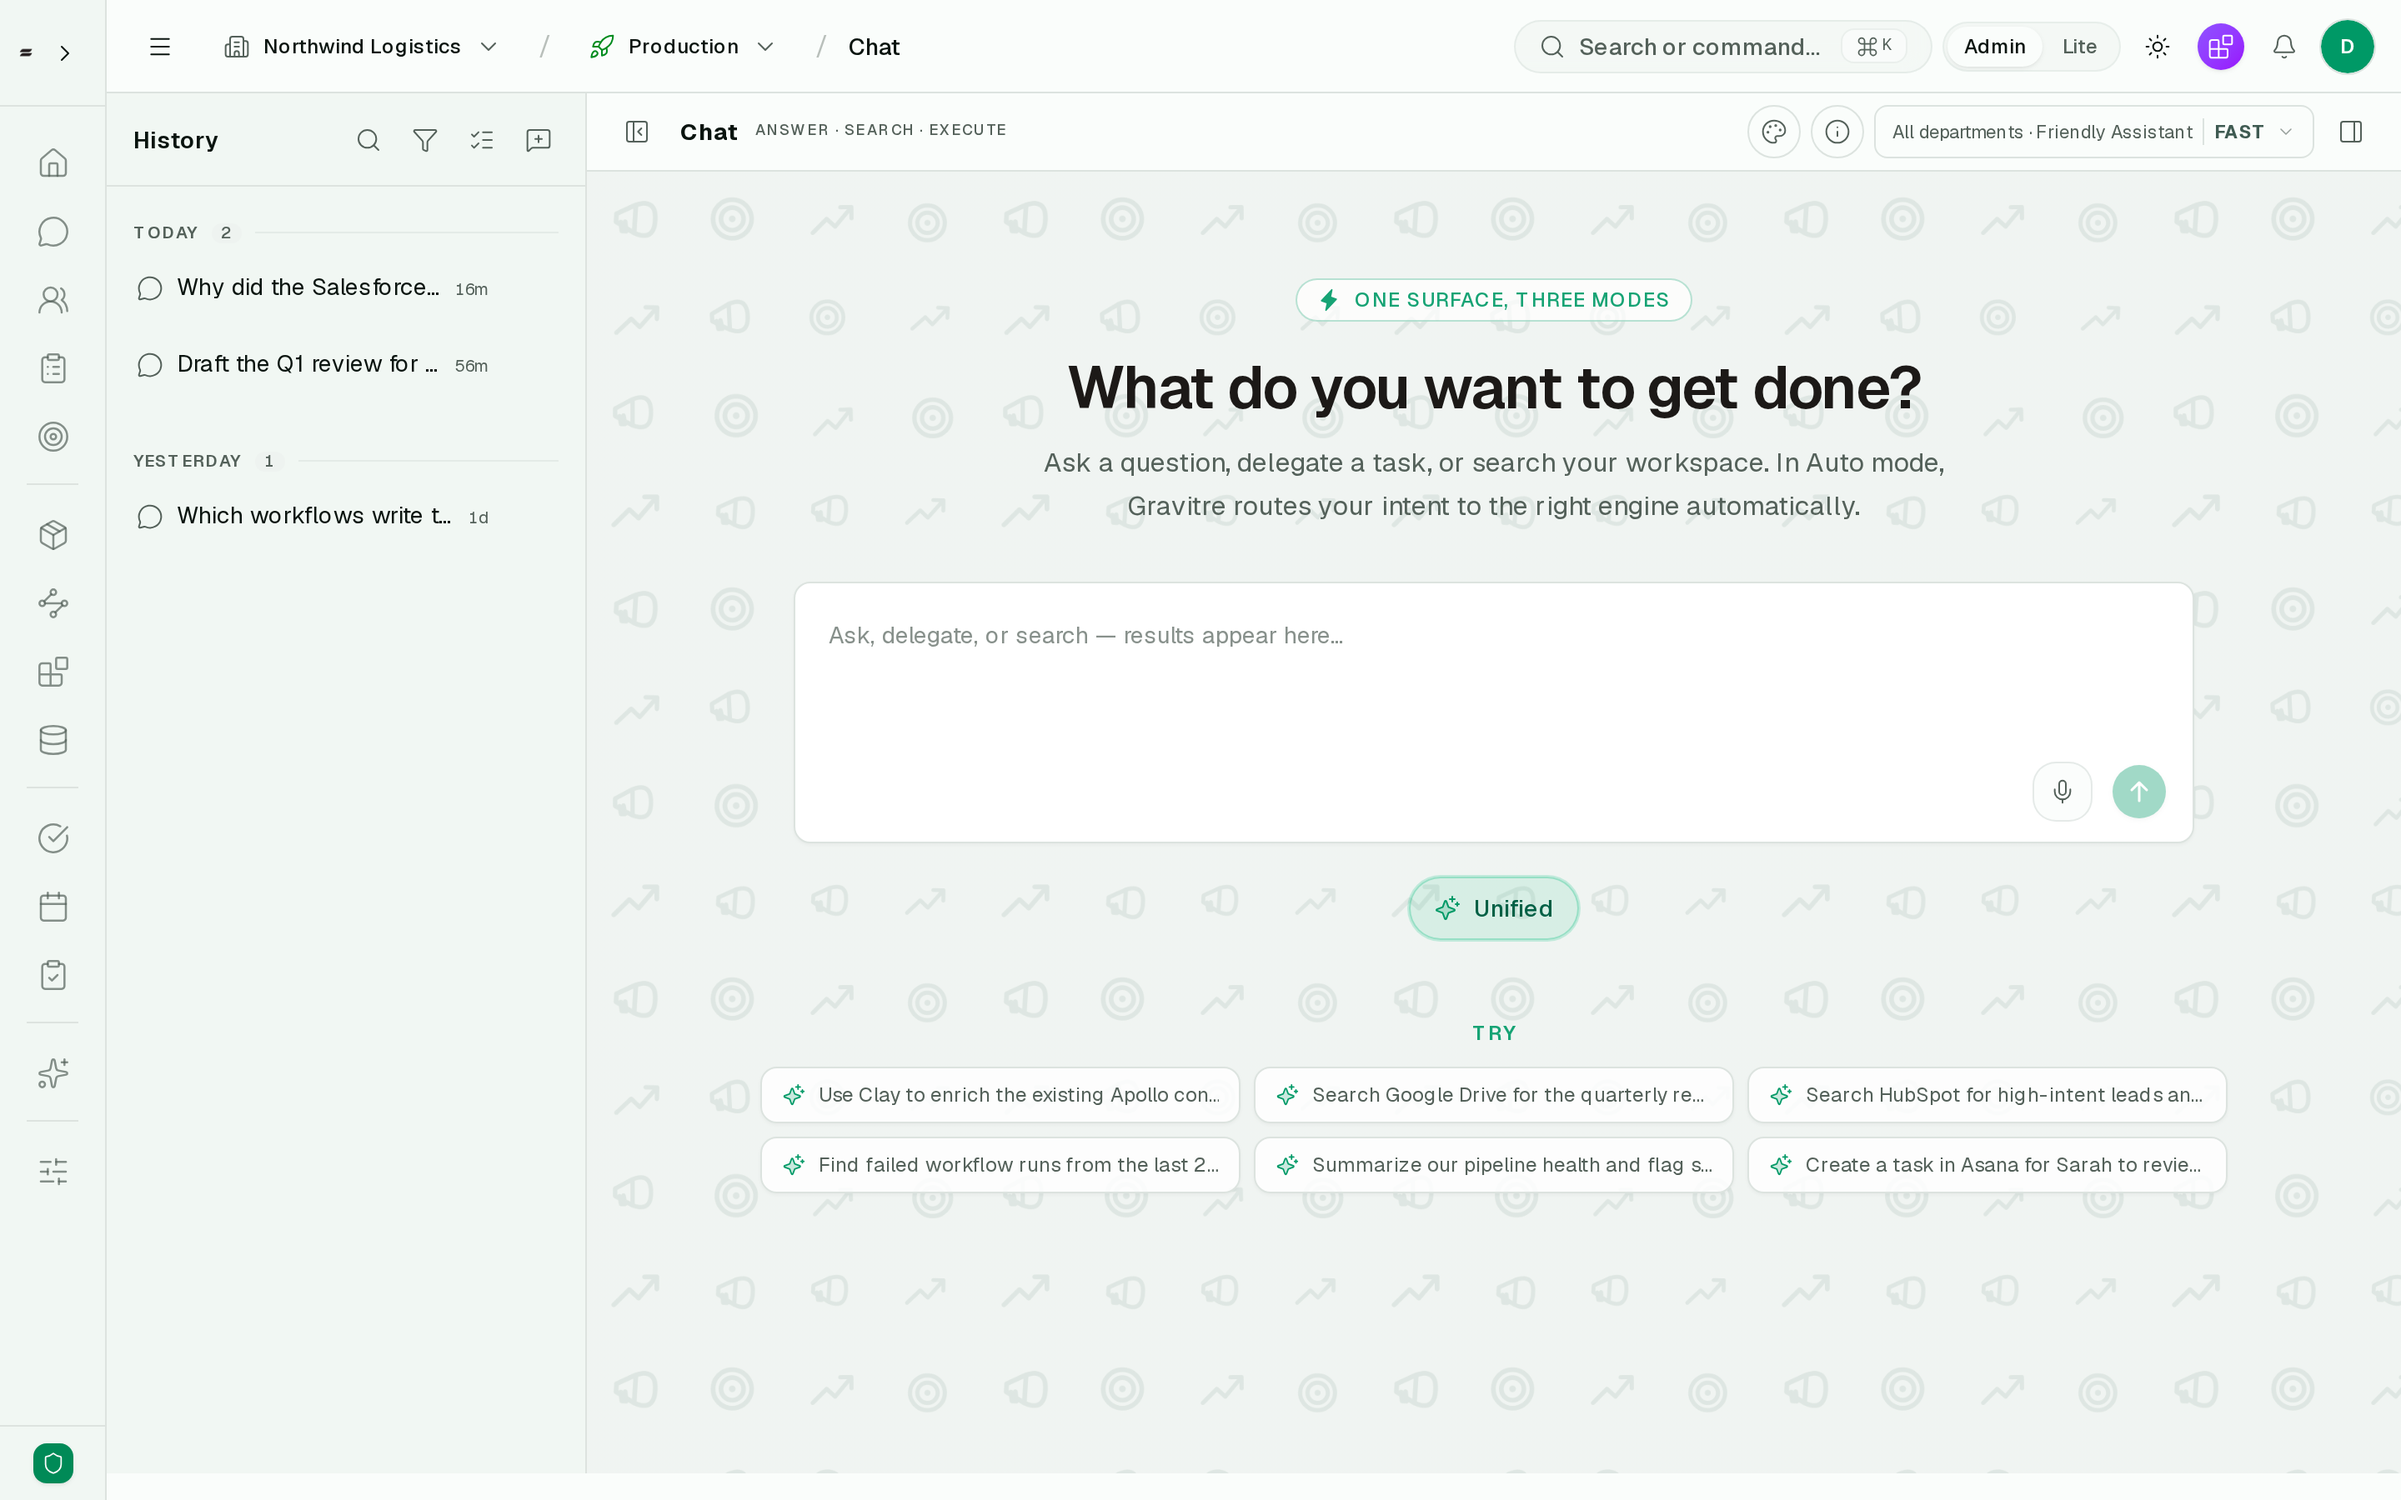
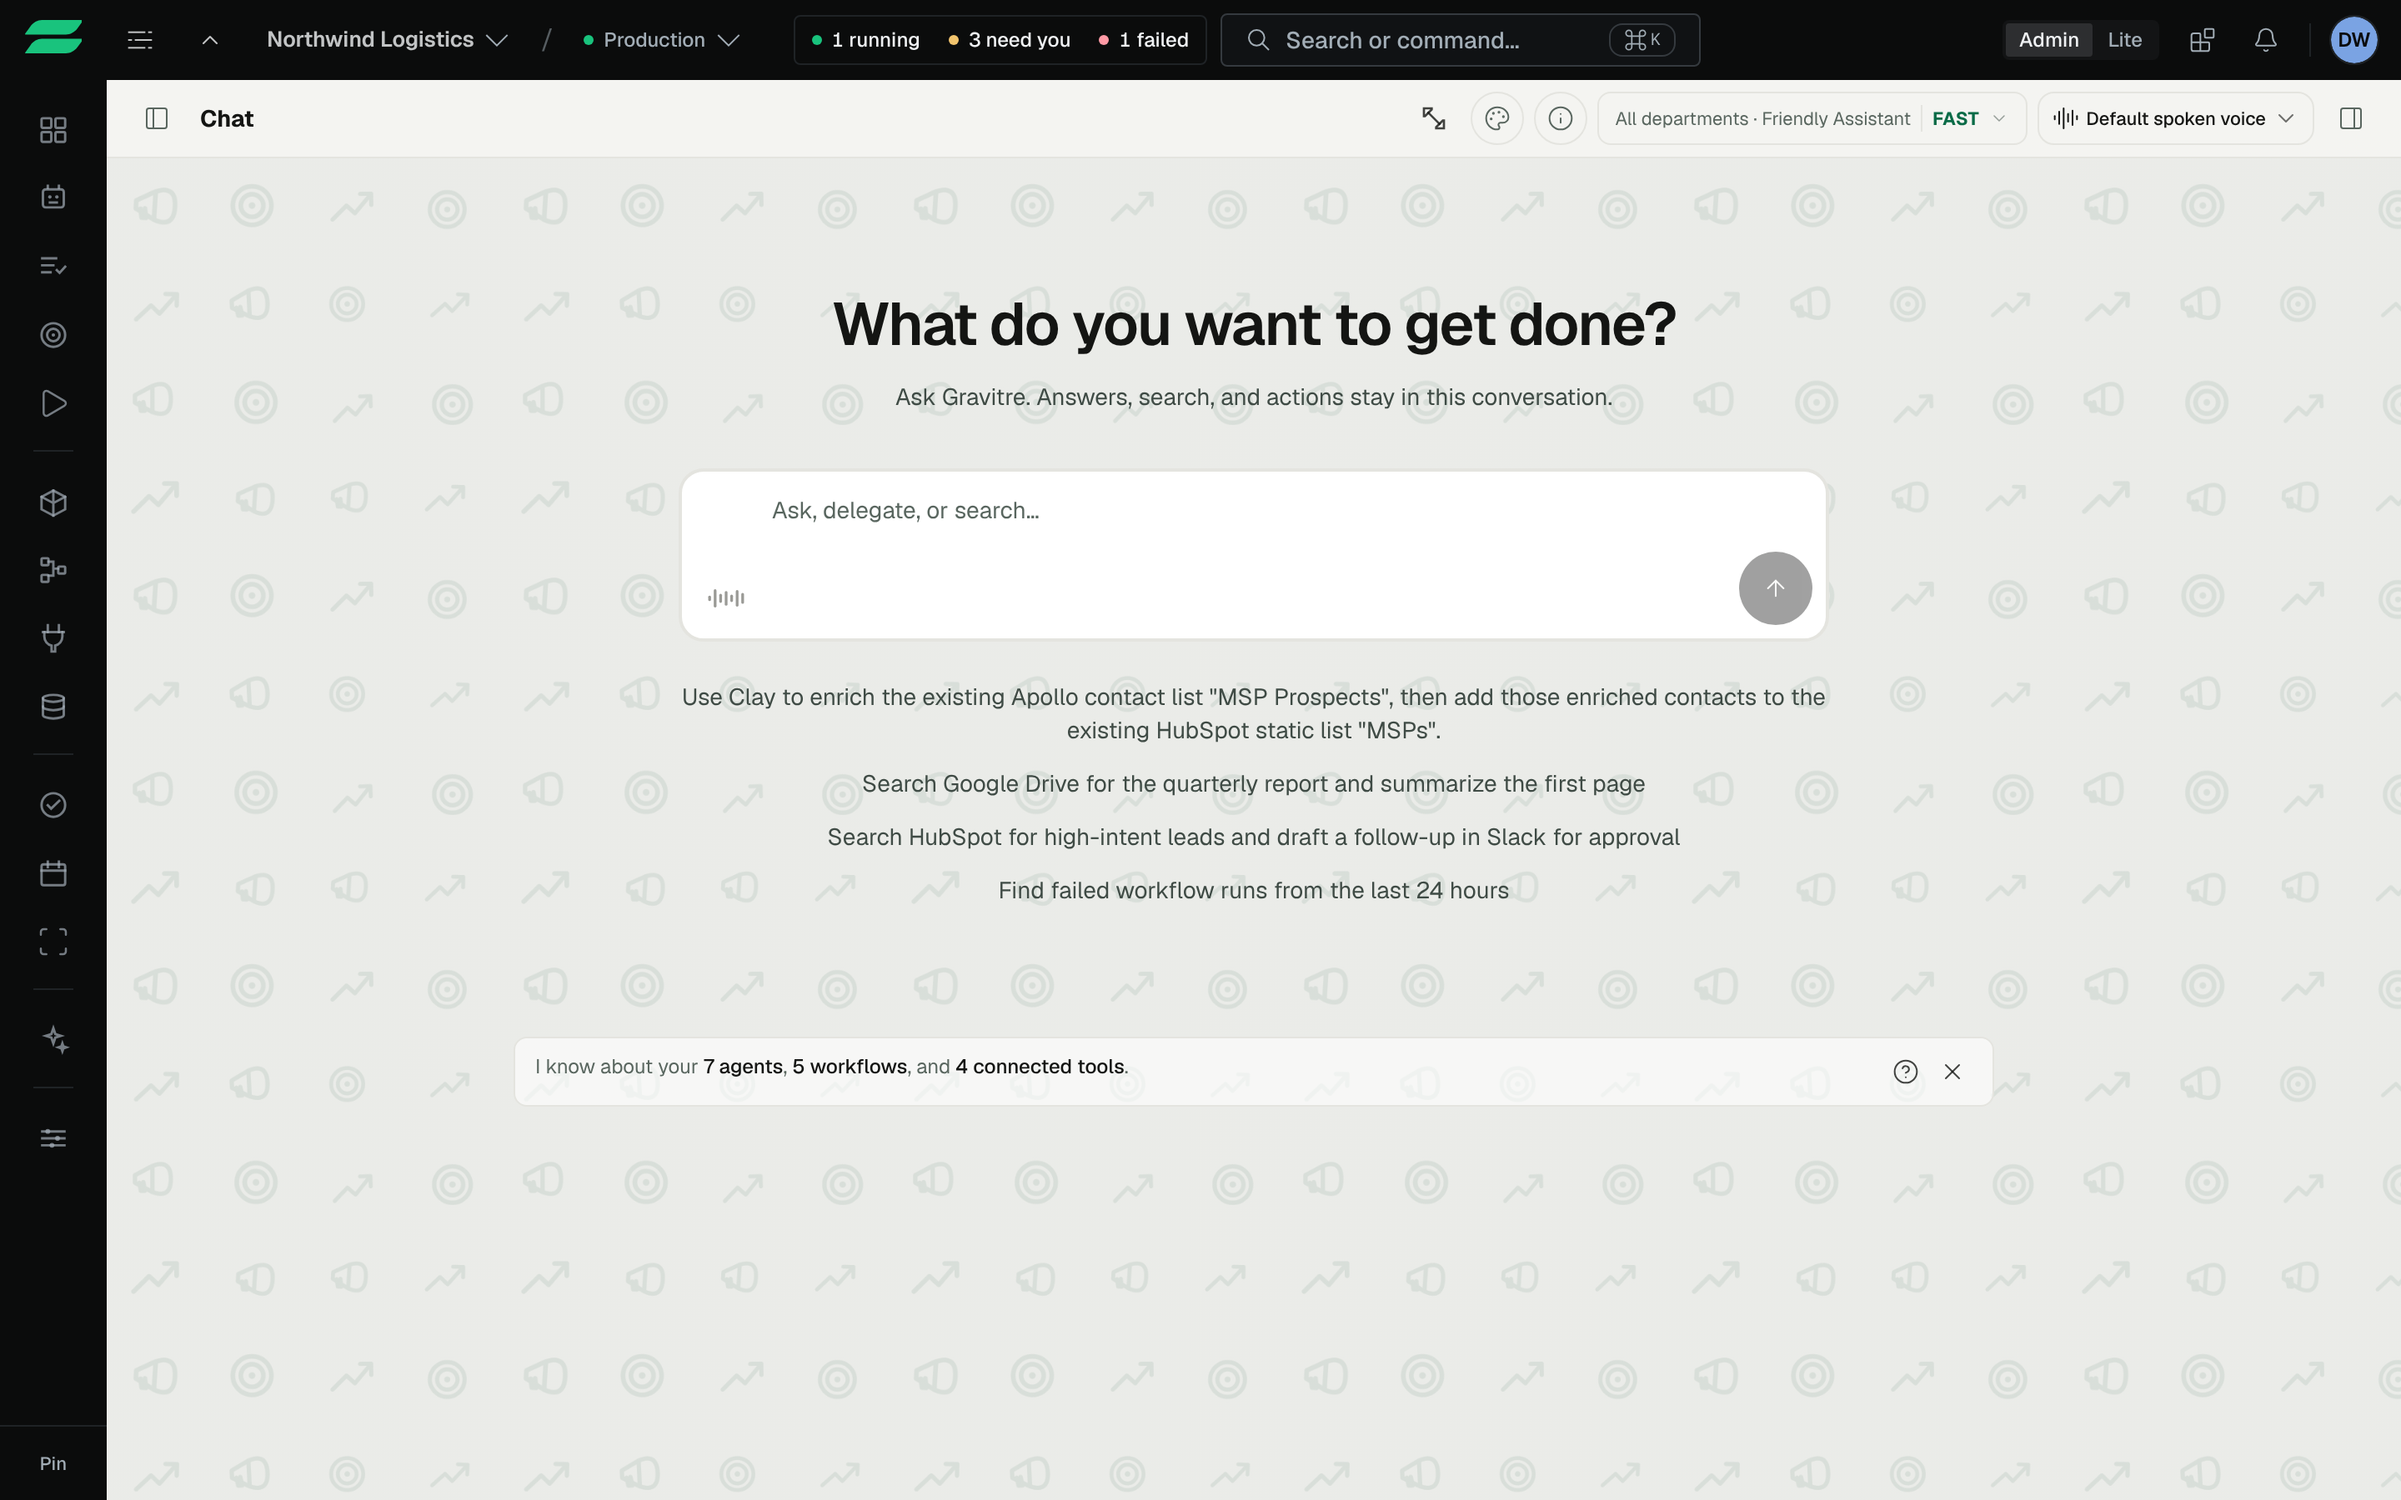
Marketing: features hero pills switch the screenshot; real Gravitre mark in the illustrations
The Gravitre AI / Agents / Workflows / Connectors / Approvals / GIBE pills on
/features are now buttons that swap the framed screenshot to that app screen.
Gravitre AI and Workflows are fresh captures; GIBE shows the Knowledge view.
The hub mark inside the new illustrations is the real two-bar logo.

Claude-Session: https://claude.ai/code/session_01XzMELQLTnafTGZHyK3LxYt

diff --git a/apps/web/components/marketing/features/features-page.tsx b/apps/web/components/marketing/features/features-page.tsx
@@ -40,6 +40,55 @@ import {
 import { VoiceIntentField } from "@/components/marketing/creative"
 import { MARKETING_COPY } from "@/lib/marketing-copy"
 
+/** Hero pill → the real app screen it names (captures from /e2e/shots). */
+const HERO_SHOTS: Record<
+  string,
+  { src: string; alt: string; width: number; height: number; title: string }
+> = {
+  "Gravitre AI": {
+    src: "/product/app-ai.png",
+    alt: "Gravitre AI chat: ask, delegate, or search across your connected stack",
+    width: 2880,
+    height: 1800,
+    title: "Gravitre AI",
+  },
+  Agents: {
+    src: "/product/app-agents-team.png",
+    alt: "Gravitre Agents: your AI workforce by department",
+    width: 2880,
+    height: 1620,
+    title: "Agents",
+  },
+  Workflows: {
+    src: "/product/app-workflows.png",
+    alt: "Gravitre Workflows: status, runs and failure signals across connectors",
+    width: 2880,
+    height: 1800,
+    title: "Workflows",
+  },
+  Connectors: {
+    src: "/product/app-connectors-hub.png",
+    alt: "Gravitre Connectors: each system from connected to ready for agents",
+    width: 2880,
+    height: 1620,
+    title: "Connectors",
+  },
+  Approvals: {
+    src: "/product/app-approvals.png",
+    alt: "Gravitre decision queue with a paused write waiting for approval",
+    width: 2880,
+    height: 1800,
+    title: "Approvals",
+  },
+  GIBE: {
+    src: "/product/app-knowledge.png",
+    alt: "Gravitre Knowledge: what GIBE has learned about how your business connects",
+    width: 2880,
+    height: 1800,
+    title: "Knowledge",
+  },
+}
+
 const surfaceIcons = [
   BrainIcon,
   MouseBoxIcon,
@@ -56,6 +105,8 @@ const surfaceIcons = [
  */
 export function FeaturesPage() {
   const hero = MARKETING_COPY.featuresHero
+  const [activePill, setActivePill] = useState<string>("Agents")
+  const shot = HERO_SHOTS[activePill] ?? HERO_SHOTS.Agents
 
   return (
     <main className="bg-[color:var(--g-marketing-canvas)]">
@@ -71,12 +122,19 @@ export function FeaturesPage() {
       >
         <div className="mt-8 flex flex-wrap items-center justify-center gap-2.5">
           {hero.pills.map((pill) => (
-            <span
+            <button
               key={pill}
-              className="rounded-full border border-divide bg-[color:var(--g-marketing-surface)] px-3.5 py-2 text-sm font-medium text-charcoal-700"
+              type="button"
+              onClick={() => setActivePill(pill)}
+              aria-pressed={activePill === pill}
+              className={
+                activePill === pill
+                  ? "rounded-full border border-charcoal-900 bg-charcoal-900 px-3.5 py-2 text-sm font-medium text-background"
+                  : "rounded-full border border-divide bg-[color:var(--g-marketing-surface)] px-3.5 py-2 text-sm font-medium text-charcoal-700 hover:text-charcoal-900"
+              }
             >
               {pill}
-            </span>
+            </button>
           ))}
         </div>
         <div className="mt-8 flex flex-wrap items-center justify-center gap-3">
@@ -91,15 +149,13 @@ export function FeaturesPage() {
 
       <DivideX />
       <HeroImage
-        src="/product/app-agents-team.png"
-        title="Agents"
-        chips={[
-          { label: "Agents by department", at: "top-left", tone: "slate" },
-          { label: "Human approval on writes", at: "bottom-right", tone: "amber" },
-        ]}
-        alt="Gravitre Agents: your AI workforce by department"
-        width={2880}
-        height={1620}
+        key={shot.src}
+        src={shot.src}
+        alt={shot.alt}
+        width={shot.width}
+        height={shot.height}
+        title={shot.title}
+        chips={[{ label: "Human approval on writes", at: "bottom-right", tone: "amber" }]}
       />
       <DivideX />
 
